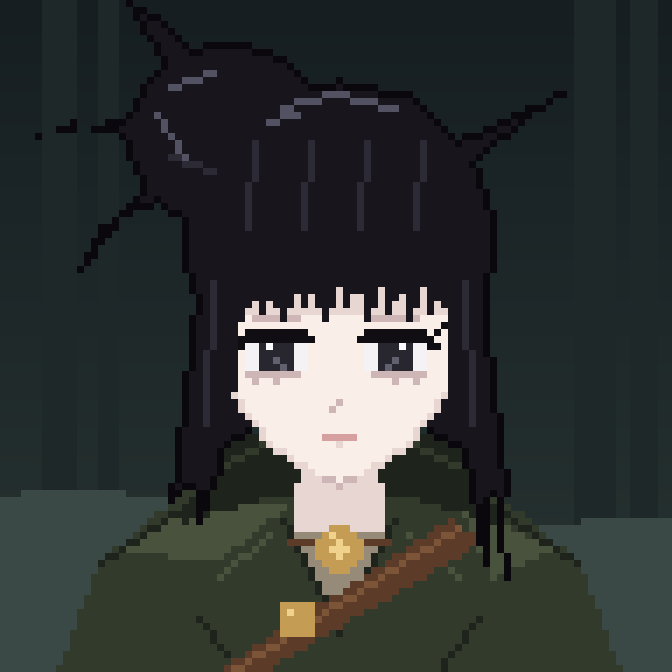
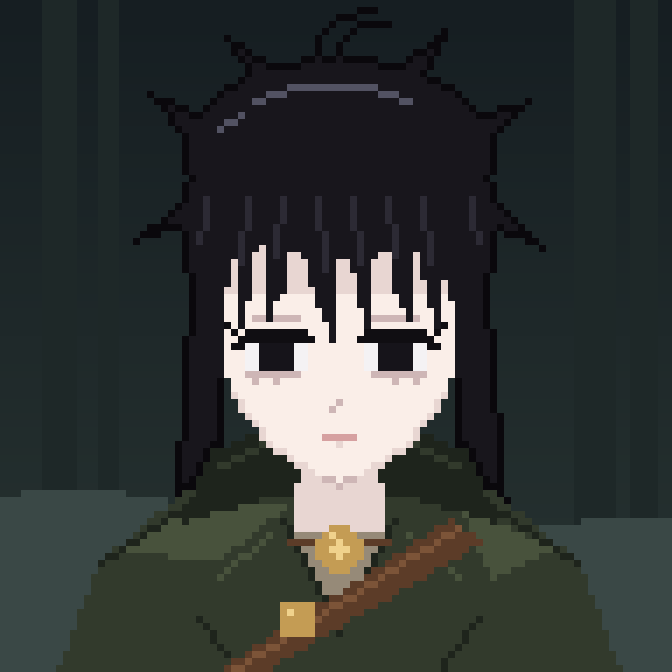
Rework hunter girl hair into messy strands with ahoge, lightless eyes
Claude-Session: https://claude.ai/code/session_0155yoUibrhMAmrpcv8V9b9L

diff --git a/draw_hunter_girl.py b/draw_hunter_girl.py
@@ -17,7 +17,7 @@ SKIN_SHADE = (232, 214, 210)
 SKIN_DARK = (206, 182, 182)
 LIP = (214, 160, 160)
 LASH = (16, 14, 18)
-IRIS = (40, 38, 46)
+IRIS = (22, 20, 26)
 IRIS_HI = (96, 96, 110)
 SCLERA = (244, 242, 244)
 CLOAK = (50, 58, 44)
@@ -43,11 +43,10 @@ for tx, w in ((6, 4), (82, 5), (90, 3), (14, 2)):
 d.ellipse((-20, 70, 40, 100), fill=FOG)
 d.ellipse((60, 74, 120, 104), fill=FOG)
 
-# --- Hair behind the head (bun + back volume) ---
-d.ellipse((18, 6, 46, 32), fill=HAIR)          # bun
+# --- Hair behind the head ---
 d.ellipse((26, 12, 70, 56), fill=HAIR)         # skull
-d.polygon([(28, 40), (24, 72), (34, 74), (36, 44)], fill=HAIR)   # left back lock
-d.polygon([(68, 40), (72, 70), (62, 72), (60, 44)], fill=HAIR)   # right back lock
+d.polygon([(27, 40), (25, 70), (30, 72), (32, 46)], fill=HAIR)   # left back lock
+d.polygon([(69, 40), (72, 76), (66, 74), (64, 46)], fill=HAIR)   # right back lock
 
 # --- Cloak: hood pooled behind the shoulders ---
 d.polygon([(8, 96), (14, 80), (26, 70), (40, 68), (56, 68), (70, 70),
@@ -95,7 +94,7 @@ d.line((33, 56, 38, 63), fill=SKIN_SHADE)
 d.line((63, 56, 58, 63), fill=SKIN_SHADE)
 d.line((38, 63, 44, 67), fill=SKIN_SHADE)
 d.line((58, 63, 52, 67), fill=SKIN_SHADE)
-d.rectangle((32, 34, 64, 44), fill=SKIN_SHADE)    # shadow under bangs
+d.rectangle((32, 34, 64, 41), fill=SKIN_SHADE)    # shadow under bangs
 
 # Half-lidded eyes (blank, calm)
 def eye(x0, flip):
@@ -106,9 +105,6 @@ def eye(x0, flip):
         d.line((xs(i), 49, xs(i), 52), fill=SCLERA)
     for i in range(3, 8):
         d.line((xs(i), 49, xs(i), 52), fill=IRIS)
-    d.point((xs(5), 51), fill=IRIS_HI)
-    d.point((xs(4), 52), fill=IRIS_HI)
-    d.point((xs(6), 49), fill=(250, 250, 255))   # tiny catchlight
     # heavy upper lid: flat, slightly drooping at the outer corner
     for i in range(0, 11):
         d.point((xs(i), 48), fill=LASH)
@@ -137,44 +133,50 @@ d.line((46, 62, 50, 62), fill=LIP)
 d.point((48, 63), fill=SKIN_SHADE)
 
 # --- Front hair ---
-# Crown
-d.polygon([(28, 34), (30, 22), (38, 14), (48, 11), (58, 13), (66, 22), (68, 34)], fill=HAIR)
-# Long straight bangs, slight side part
-bangs = [
-    (31, 48, 28, 36), (34, 45, 30, 39), (37, 44, 33, 42), (40, 45, 36, 45),
-    (43, 43, 39, 48), (46, 45, 42, 51), (49, 43, 46, 54), (52, 45, 50, 57),
-    (55, 44, 53, 60), (58, 45, 56, 63), (61, 44, 59, 66), (65, 48, 62, 68),
-]
-for tx, ty, bl, br in bangs:
-    d.polygon([(bl, 30), (br, 30), (tx, ty)], fill=HAIR)
-# Face-framing side strands
-d.polygon([(28, 32), (34, 36), (33, 52), (31, 66), (28, 74), (27, 56)], fill=HAIR)
-d.polygon([(68, 32), (63, 36), (64, 52), (66, 64), (69, 80), (70, 56)], fill=HAIR)
-d.line((69, 60, 72, 82), fill=HAIR)            # long thin strand
-d.line((70, 60, 71, 76), fill=HAIR)
+# Crown of the head
+d.ellipse((26, 8, 70, 36), fill=HAIR)
 
-# Messy flyaways from the bun
+# Messy bangs: many separate tapered strands of uneven length
+# (root_x, tip_x, tip_y, half_width)
+strands = [
+    (29, 27, 48, 3), (32, 31, 43, 3), (35, 34, 46, 2), (37, 40, 41, 2),
+    (40, 38, 45, 2), (43, 45, 43, 2), (45, 47, 48, 2), (48, 46, 40, 2),
+    (50, 52, 46, 2), (53, 51, 42, 2), (55, 58, 45, 2), (58, 56, 41, 2),
+    (60, 62, 46, 3), (63, 64, 42, 3), (67, 69, 49, 3),
+]
+for rx, tx, ty, w in strands:
+    d.polygon([(rx - w, 26), (rx + w, 26), (tx, ty)], fill=HAIR)
+# Thin lines inside the fringe to separate the strands
+for rx, tx, ty, w in strands[::2]:
+    d.line((rx, 28, (rx + tx) // 2, (28 + ty) // 2), fill=HAIR_MID)
+
+# Stray tufts poking out of the silhouette
 for poly in (
-    [(24, 10), (28, 8), (22, 2), (18, 0)],          # up-left spike
-    [(20, 16), (20, 20), (10, 17), (5, 19)],        # left spike
-    [(22, 24), (25, 27), (14, 32), (11, 38)],       # down-left spike
-    [(64, 20), (66, 24), (75, 16), (80, 13)],       # right spike
+    [(27, 20), (29, 16), (21, 13)],
+    [(69, 20), (67, 16), (75, 14)],
+    [(36, 11), (39, 9), (32, 5)],
+    [(60, 11), (57, 9), (63, 4)],
+    [(26, 28), (26, 32), (19, 34)],
+    [(70, 28), (70, 32), (77, 35)],
 ):
     d.polygon(poly, fill=HAIR)
 
+# Slim side locks, a little jagged
+d.polygon([(27, 34), (31, 36), (31, 50), (29, 62), (27, 54)], fill=HAIR)
+d.polygon([(28, 52), (30, 56), (26, 64)], fill=HAIR)
+d.polygon([(69, 34), (65, 36), (65, 50), (67, 60), (69, 54)], fill=HAIR)
+d.polygon([(68, 52), (66, 56), (70, 66)], fill=HAIR)
+
+# Ahoge: two strands curling up from the crown
+d.line([(44, 9), (45, 5), (48, 2), (53, 1)], fill=HAIR)
+d.line([(47, 9), (48, 6), (51, 3), (55, 3)], fill=HAIR)
+
 # Hair sheen
 for pts in (
-    [(40, 15), (48, 13), (56, 15)],
-    [(38, 17), (42, 16)],
-    [(24, 12), (30, 10)],
-    [(22, 16), (26, 22)],
+    [(36, 14), (42, 12), (52, 12), (58, 14)],
+    [(31, 18), (34, 16)],
 ):
     d.line(pts, fill=HAIR_HI)
-for x in (36, 44, 52, 60):
-    d.line((x, 20, x - 1, 32), fill=HAIR_MID)
-d.line((66, 40, 67, 60), fill=HAIR_MID)
-d.line((30, 40, 29, 60), fill=HAIR_MID)
-d.line((24, 22, 30, 24), fill=HAIR_MID)
 
 # Dark edge where hair meets background, for a crisp sprite look
 src = img.copy().load()
